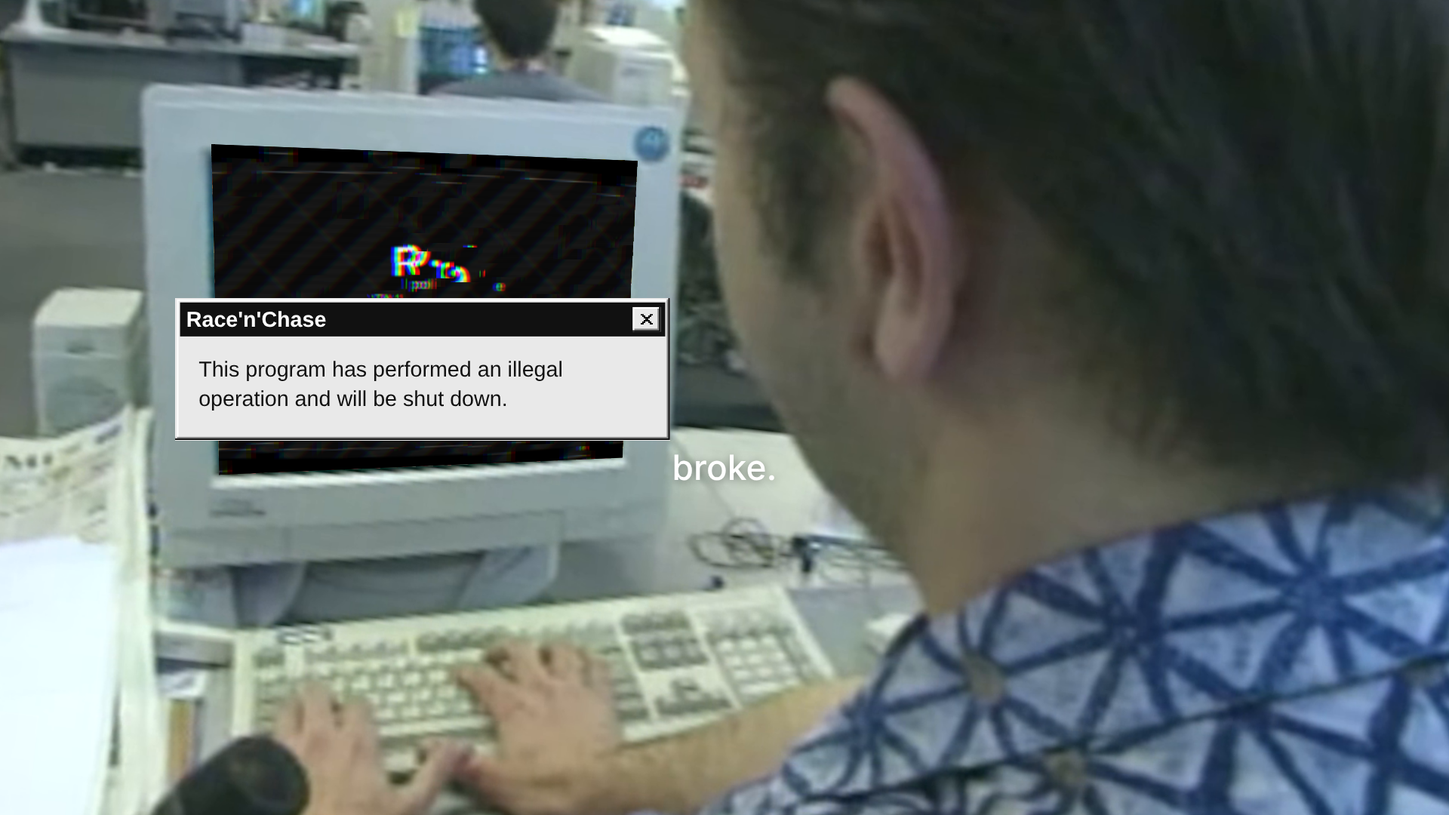
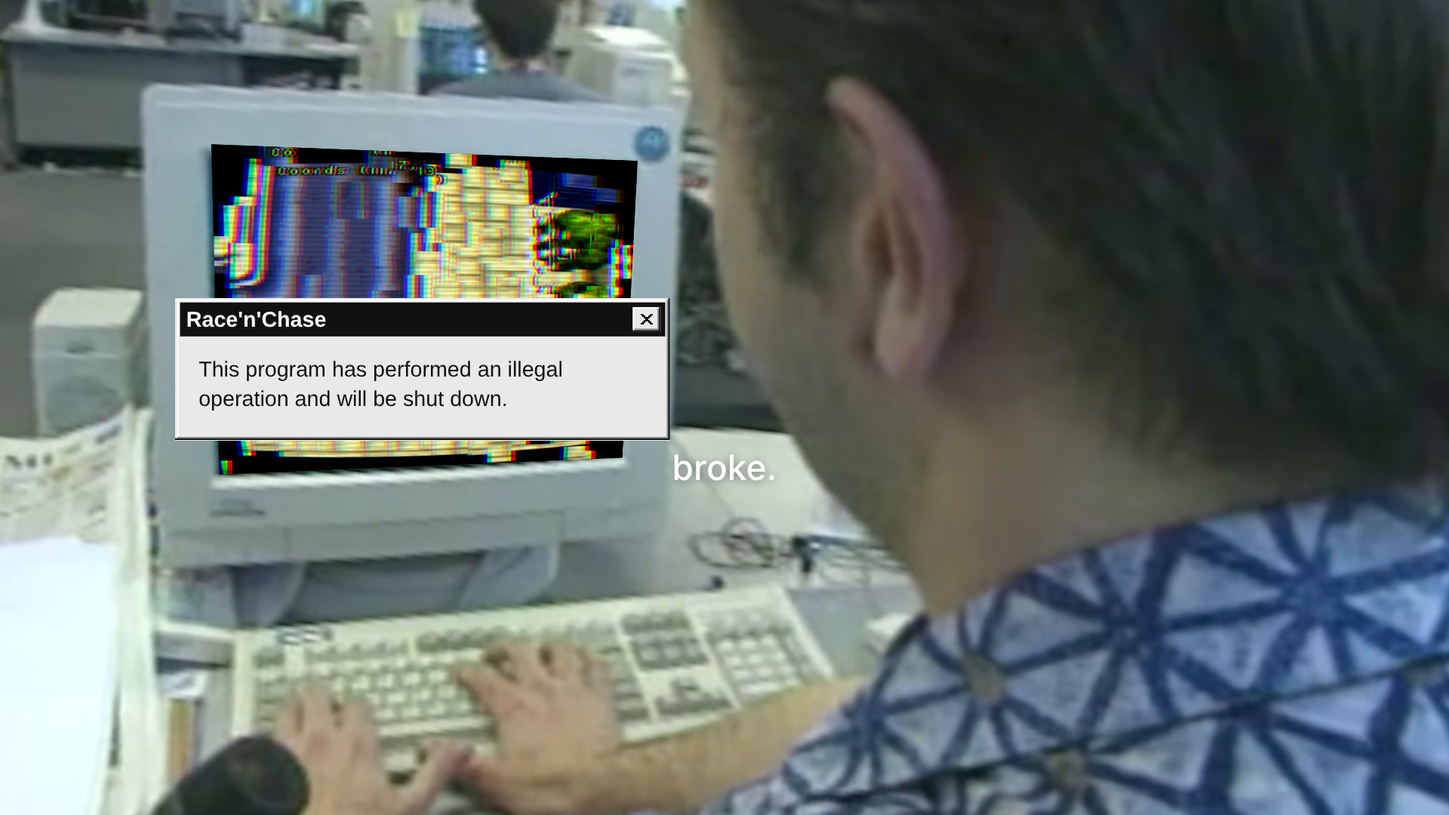
Crop the R9.1 uploader watermark out of B9 (L1 + re-tracked diagram), B2 (CRT picture) and B16 (rewind)
Plan Rule 5 treats a watermarked clip as unusable; the GTA 1 chase is re-cropped
(B9 536:302:260:108, B2 536:402:260:53) instead of retouched. Beats re-rendered.

Claude-Session: https://claude.ai/code/session_01Gm9Yp72acZwzYS1VLxBsXc

Changed region(s): [[0.125, 0.1833, 0.4375, 0.3667], [0.125, 0.5194, 0.4062, 0.5806]]

diff --git a/RC_GTA-Origin/hyperframes/b09-throughyou/index.html b/RC_GTA-Origin/hyperframes/b09-throughyou/index.html
@@ -29,16 +29,17 @@
          beat     local    what
          -6..0    0..6     head handle: transparent (Tesseract L1 R9.1 under it), path diagram's white dot already on the
                            player's car (opening state continued backward), diagram push extrapolated backward (99.81%)
-         0        6        X1 hard cut from B8's black. TS+HF: Tesseract L1 R9.1 313.9 s+ (~60% sat, 105%, soft edges, push
-                           100->104% f0-127). HF overlay = path diagram + T1. T1 "The police cars" on "The"
+         0        6        X1 hard cut from B8's black. TS+HF: Tesseract L1 R9.1 313.9 s+ (crop 536:302:260:108 = the
+                           'Sakura240' watermark cropped out, plan Rule 5; ~60% sat, 105%, soft edges, push 100->104% f0-127).
+                           HF overlay = path diagram + T1. T1 "The police cars" on "The"
          22       28       T1 "stop following you" on "stop"; the dotted yellow path (#FFE14D, 4 px dots) draws the normal
-                           chase path curving behind the dot, from the police position S (240,470) to the dot, 24f, linear
+                           chase path curving behind the dot, from the police position S (600,470) to the dot, 24f, linear
                            (drawn by f46 = local 52, before "you" f49)
          52       58       T1 "and start trying" on "and"
          73       79       T1 "to drive straight" on "to"
          84-92    90-98    on "straight": the solid red arrow (#E3262E, 10 px) shoots from S straight at the dot and through
-                           it, 8f, ease out (power3.out); its head passes the dot between local 92 and 93
-         87-95    93-101   the dot shakes (kit RCK.motifs.shake, 6 px decaying, 8f) from the first frame the arrow is through
+                           it, 8f, ease out (power3.out); its head passes the dot between local 91 and 92
+         86-94    92-100   the dot shakes (kit RCK.motifs.shake, 6 px decaying, 8f) from the first frame the arrow is through
          100      106      T1 "through you." on "through"; diagram holds (on screen f0-127 = 4.2 s, plan: >= 1.5 s)
          127      133      X1 hard cut on "They ram.": HF L3, three vertical strips (8 px ink-black gutters). Strip 1 GTA 1 ram
                            (R9.1 318.1 s+ = the ram that ends the L1 shot; SUBSTITUTE for R9.2) pops (4f, 96->100% + fade)
@@ -70,11 +71,13 @@
       <!-- ===== Path diagram (HF overlay over the Tesseract L1 shot), local 0 .. 133 (beat f-6 .. f127).
            Layer order inside the SVG: dotted yellow path < white dot < red arrow (the arrow crosses the dot = "through").
            Geometry (SVG px; the group #b09-track is translated per frame so D rides the player's purple Beast GTS in the real
-           R9.1 shot, see TRACK below): white dot D (960,540) r 22 (44 px) = the player's car; police position S (240,470);
-           normal chase path =
-           cubic S -> C1 (330,170) -> C2 (830,170) -> D (ends under the dot); red arrow = straight line S -> D -> E, 200 px
-           past the dot centre (E 1159.06,559.35), 10 px, solid triangular head 36 x 32 px. All above the T1 caption band
-           (y 592-648). ===== -->
+           R9.1 shot, see TRACK below): white dot D (960,540) r 22 (44 px) = the player's car; police position S (600,470)
+           (360 px left of D: in the watermark-free crop the car rides as far left as screen x ~484, so S sits closer than
+           the first build's 720 px to stay on screen); normal chase path =
+           cubic S -> C1 (645,170) -> C2 (895,170) -> D (ends under the dot); red arrow = straight line S -> D -> E, 200 px
+           past the dot centre (E 1156.32,578.17), 10 px, solid triangular head 36 x 32 px. Tracked and pushed, all of it
+           stays on screen and above the T1 caption band (y 592-648): measured dot bottom <= 580, path top >= 64,
+           S x >= 116. ===== -->
       <div data-hf-id="hf-tb41" id="b09-diagram" style="z-index: 20">
         <div data-hf-id="hf-ef0x" id="b09-dg" class="clip" data-start="0.0000" data-duration="4.4333" data-track-index="5">
           <svg data-hf-id="hf-ji9f" viewBox="0 0 1920 1080" width="1920" height="1080" xmlns="http://www.w3.org/2000/svg" aria-hidden="true">
@@ -82,20 +85,20 @@
             <defs data-hf-id="hf-mh0t">
               <!-- reveal mask for the dotted path: a solid stroke of the same curve, dash-offset 100 -> 0 (pathLength 100) -->
               <mask data-hf-id="hf-zm5i" id="b09-path-mask" maskUnits="userSpaceOnUse" x="0" y="0" width="1920" height="1080">
-                <path data-hf-id="hf-762r" id="b09-path-reveal" d="M240,470 C330,170 830,170 960,540" fill="none" stroke="#FFFFFF" stroke-width="16" stroke-linecap="butt" pathLength="100" stroke-dasharray="100 100" stroke-dashoffset="100" />
+                <path data-hf-id="hf-762r" id="b09-path-reveal" d="M600,470 C645,170 895,170 960,540" fill="none" stroke="#FFFFFF" stroke-width="16" stroke-linecap="butt" pathLength="100" stroke-dasharray="100 100" stroke-dashoffset="100" />
               </mask>
             </defs>
             <!-- dotted yellow line: 4 px round dots, 12 px pitch -->
-            <path data-hf-id="hf-golg" id="b09-path" d="M240,470 C330,170 830,170 960,540" fill="none" style="stroke: var(--highlighter)" stroke-width="4" stroke-linecap="round" stroke-dasharray="0 12" mask="url(#b09-path-mask)" />
+            <path data-hf-id="hf-golg" id="b09-path" d="M600,470 C645,170 895,170 960,540" fill="none" style="stroke: var(--highlighter)" stroke-width="4" stroke-linecap="round" stroke-dasharray="0 12" mask="url(#b09-path-mask)" />
             <!-- white dot = the player's car; the <g> shakes -->
             <g data-hf-id="hf-uu6w" id="b09-dot">
               <circle data-hf-id="hf-vx03" cx="960" cy="540" r="22" style="fill: var(--white)" />
             </g>
             <!-- solid red arrow: line S -> head base (E - 36 px), dash-offset reveal; the head rides the tip -->
             <g data-hf-id="hf-qbnu" id="b09-arrow">
-              <line data-hf-id="hf-q9au" id="b09-arrow-line" x1="240" y1="470" x2="1123.2304" y2="555.8696" style="stroke: var(--siren-red)" stroke-width="10" stroke-linecap="butt" pathLength="100" stroke-dasharray="100 100" stroke-dashoffset="100" />
+              <line data-hf-id="hf-q9au" id="b09-arrow-line" x1="600" y1="470" x2="1120.9849" y2="571.3026" style="stroke: var(--siren-red)" stroke-width="10" stroke-linecap="butt" pathLength="100" stroke-dasharray="100 100" stroke-dashoffset="100" />
               <g data-hf-id="hf-rvmy" id="b09-arrow-tip">
-                <polygon data-hf-id="hf-slpz" points="0,0 -36,-16 -36,16" style="fill: var(--siren-red)" transform="rotate(5.55297)" />
+                <polygon data-hf-id="hf-slpz" points="0,0 -36,-16 -36,16" style="fill: var(--siren-red)" transform="rotate(11.00354)" />
               </g>
             </g>
             </g>
@@ -142,12 +145,19 @@
       // anchor); the head handle continues the same line backward (local 0 = 99.811%).
       const P0 = 1 - 0.04 * 6 / 127;
       S.push(tl, '#b09-diagram', f(0), { until: f(CUT_L3), from: P0, to: 1.04 });
-      // Track: the dot rides the player's car (purple Beast GTS) in the Tesseract L1 shot. Car centre measured by template
-      // matching on R9.1 (crop 736:414:59:40 scaled to 1920 x 1080), source time -> (x, y); mapped through the L1 base scale
-      // 105% about the frame centre (the push is shared: #b09-diagram is pushed like the shot). Beat f0 = source 313.9 s.
-      const TRACK = [[313.70,1250,578],[314.0,1260,580],[314.2,1248,584],[314.4,1208,560],[314.6,1112,496],[314.8,1016,452],
-        [315.0,920,440],[315.2,912,452],[315.6,904,456],[316.0,900,456],[316.2,928,472],[316.5,928,484],[316.8,960,508],
-        [317.0,968,532],[317.9,968,532],[318.0,964,540],[318.14,968,528]];
+      // Track: the dot rides the player's car (purple Beast GTS) in the Tesseract L1 shot. Car centre measured on every
+      // source frame 313.7-318.13 s by template matching on R9.1 (the car sprite cut from 316.5 s, rotated in 0.5 deg steps,
+      // masked NCC), in the shot's crop 536:302:260:108 scaled to 1920 x 1080 (x' = (sx - 260) * 1920/536,
+      // y' = (sy - 108) * 1080/302), then reduced to the keypoints below (linear in between stays within 12 px of every
+      // measured frame; the clip's 15 fps steps are kept so the dot does not slide on the car). Source time -> (x, y);
+      // mapped through the L1 base scale 105% about the frame centre (the push is shared: #b09-diagram is pushed like the
+      // shot). Beat f0 = source 313.9 s.
+      const TRACK = [[313.7,1020,554],[313.7667,1002,551],[314.0667,1016,552],[314.2,992,557],[314.5,922,507],
+        [314.5333,894,490],[314.5667,872,446],[314.6,872,446],[314.6333,836,426],[314.6667,836,426],[314.7,779,411],
+        [314.7333,779,411],[314.7667,737,386],[314.8,737,386],[314.8667,651,370],[314.9,651,370],[314.9333,599,370],
+        [314.9667,599,370],[315,545,370],[315.0667,531,365],[315.2,531,382],[315.2333,558,393],[315.4,544,382],
+        [315.4333,522,387],[316,515,387],[316.0333,557,393],[316.5667,549,429],[316.7,572,440],[316.7667,600,460],
+        [316.9667,608,493],[318.1333,607,490]];
       const SRC0 = 313.9;                                                  // source time at beat f0 (local 6)
       for (let k = 0; k <= CUT_L3; k++) {
         const t = SRC0 + (k - 6) / 30;
@@ -170,11 +180,12 @@
       S.hard(tl, '#b09-arrow', { opacity: 0 }, { opacity: 1 }, f(W.straight));
       tl.fromTo('#b09-arrow-line', { attr: { 'stroke-dashoffset': 100 } },
         { attr: { 'stroke-dashoffset': 0 }, duration: f(8), ease: 'power3.out', immediateRender: false }, f(W.straight));
-      gsap.set('#b09-arrow-tip', { x: 275.8311, y: 473.4836 });                  // tip at S + 36 px along the line
-      tl.fromTo('#b09-arrow-tip', { x: 275.8311, y: 473.4836 },
-        { x: 1159.0614, y: 559.3532, duration: f(8), ease: 'power3.out', immediateRender: false }, f(W.straight));
-      // Tip passes the dot (723 px from S) between local 92 (643 px) and 93 (788 px): the dot shakes from local 93.
-      const HIT = W.straight + 3;
+      gsap.set('#b09-arrow-tip', { x: 635.3382, y: 476.8713 });                  // tip at S + 36 px along the line
+      tl.fromTo('#b09-arrow-tip', { x: 635.3382, y: 476.8713 },
+        { x: 1156.3231, y: 578.1739, duration: f(8), ease: 'power3.out', immediateRender: false }, f(W.straight));
+      // Tip passes the dot (367 px from S; far edge 389 px) between local 91 (256 px) and 92 (399 px): the dot shakes
+      // from local 92.
+      const HIT = W.straight + 2;
       M.shake(tl, '#b09-dot', f(HIT), { amp: 6, frames: 8, seed: 9, decay: true });
 
       // ---------------- L3 three vertical strips (beat f127 ..), one per phrase, with its T4 phrase ----------------

diff --git a/RC_GTA-Origin/hyperframes/b02-bug/index.html b/RC_GTA-Origin/hyperframes/b02-bug/index.html
@@ -28,7 +28,9 @@
       #b02-band { position: absolute; left: 0; top: 186px; width: 1920px; height: 1080px; overflow: hidden; }
       #b02-band-push { position: absolute; left: 0; top: 0; width: 1920px; height: 1080px; }
       #b02-band-push > video { position: absolute; left: 0; top: 0; width: 100%; height: 100%; object-fit: cover; }
-      /* after the cut on "1995": GTA 1 fills the whole 4:3 screen (box 537 x 406, corner-pinned at 1x; it never zooms) */
+      /* after the cut on "1995": GTA 1 fills the whole 4:3 screen (box 537 x 406, corner-pinned at 1x; it never zooms).
+         The R9.1 clip is itself a 4:3 crop (536:402:260:53, the uploader's watermark cropped out per plan Rule 5), so
+         cover fills the screen with 0.8% overscan; its CRT fringe is 50 / 541.3 px = 0.0924 (kit crtGrading, 4:3). */
       #b02-g1 { position: absolute; left: 0; top: 0; width: 100%; height: 100%; object-fit: cover; }
       /* X4 region = the screen picture only (plan: "X4 tear on the CRT picture only"): box space of the pinned screen */
       #b02-x4 { left: 0; top: 0; width: 537px; height: 406px; }
@@ -75,7 +77,7 @@
             </div></div>
           </div>
           <!-- hard cut of the CRT picture to GTA 1 (R9.1) on "1995" (local 32) -->
-          <div data-hf-id="hf-b2gb" id="b02-g1box"><video data-color-grading="{&quot;preset&quot;:null,&quot;intensity&quot;:1,&quot;adjust&quot;:{&quot;exposure&quot;:0,&quot;contrast&quot;:0.15,&quot;highlights&quot;:0,&quot;shadows&quot;:0,&quot;whites&quot;:0,&quot;blacks&quot;:0,&quot;temperature&quot;:0,&quot;tint&quot;:0,&quot;vibrance&quot;:0,&quot;saturation&quot;:0},&quot;details&quot;:{&quot;vignette&quot;:0,&quot;vignetteMidpoint&quot;:0.5,&quot;vignetteRoundness&quot;:0,&quot;vignetteFeather&quot;:0.65,&quot;grain&quot;:0,&quot;grainSize&quot;:0.25,&quot;grainRoughness&quot;:0.5},&quot;effects&quot;:{&quot;blur&quot;:0,&quot;pixelate&quot;:0,&quot;chromaBleed&quot;:0,&quot;tapeDamage&quot;:0,&quot;tapeTracking&quot;:0,&quot;tapeNoise&quot;:1,&quot;tapeSpeed&quot;:0.5,&quot;filmArtifacts&quot;:0,&quot;halftone&quot;:0,&quot;halftoneSize&quot;:0,&quot;twoInkPrint&quot;:0,&quot;twoInkPrintSize&quot;:0,&quot;ascii&quot;:0,&quot;asciiSize&quot;:0.06578947368421052,&quot;asciiInvert&quot;:0,&quot;asciiStyle&quot;:0,&quot;asciiColor&quot;:1,&quot;asciiRotation&quot;:0,&quot;dither&quot;:0,&quot;ditherSize&quot;:0,&quot;bloom&quot;:0,&quot;bloomRadius&quot;:8,&quot;monoScreen&quot;:0,&quot;monoScreenSize&quot;:0,&quot;monoScreenAngle&quot;:0,&quot;monoScreenSpread&quot;:0,&quot;monoScreenShape&quot;:0,&quot;monoScreenInvert&quot;:0,&quot;scanlines&quot;:0.15,&quot;scanlineCount&quot;:0.1896,&quot;scanlineSoftness&quot;:0,&quot;chromaticAberration&quot;:0.0693,&quot;chromaticAngle&quot;:0,&quot;crtCurvature&quot;:0.16,&quot;digitalGlitch&quot;:0,&quot;digitalGlitchColorSplit&quot;:0,&quot;digitalGlitchLineTear&quot;:0,&quot;digitalGlitchPixelate&quot;:0,&quot;digitalGlitchBlockAmount&quot;:0,&quot;digitalGlitchBlockDisplacement&quot;:0,&quot;digitalGlitchBlockOpacity&quot;:0,&quot;digitalGlitchSpeed&quot;:0,&quot;engraving&quot;:0,&quot;engravingSpacing&quot;:0.4117647058823529,&quot;engravingMinThickness&quot;:0.2,&quot;engravingMaxThickness&quot;:0.4571428571428572,&quot;engravingAngle&quot;:0.25,&quot;engravingContrast&quot;:0.4666666666666667,&quot;engravingSharpness&quot;:0.59,&quot;engravingWave&quot;:0.2,&quot;engravingWaveFrequency&quot;:0.2222222222222222,&quot;crosshatch&quot;:0,&quot;crosshatchSpacing&quot;:0.28,&quot;crosshatchThickness&quot;:0.25,&quot;crosshatchAngle&quot;:0.25,&quot;crosshatchContrast&quot;:0.3333333333333333,&quot;crosshatchEdges&quot;:0.5,&quot;crosshatchLineWeight&quot;:0,&quot;crosshatchWave&quot;:0.33,&quot;crosshatchWaveFrequency&quot;:0.2222222222222222,&quot;kuwahara&quot;:0,&quot;kuwaharaRadius&quot;:0.14285714285714285,&quot;kuwaharaSharpness&quot;:0.3125,&quot;kuwaharaSaturation&quot;:0.5},&quot;lut&quot;:null,&quot;colorSpace&quot;:&quot;rec709&quot;}" data-hf-id="hf-hpv1" id="b02-g1" class="clip" src="assets/footage/R9.1.mp4" data-start="1.0666" data-duration="5.3334" data-media-start="0" data-track-index="5" muted playsinline></video></div>
+          <div data-hf-id="hf-b2gb" id="b02-g1box"><video data-color-grading="{&quot;preset&quot;:null,&quot;intensity&quot;:1,&quot;adjust&quot;:{&quot;exposure&quot;:0,&quot;contrast&quot;:0.15,&quot;highlights&quot;:0,&quot;shadows&quot;:0,&quot;whites&quot;:0,&quot;blacks&quot;:0,&quot;temperature&quot;:0,&quot;tint&quot;:0,&quot;vibrance&quot;:0,&quot;saturation&quot;:0},&quot;details&quot;:{&quot;vignette&quot;:0,&quot;vignetteMidpoint&quot;:0.5,&quot;vignetteRoundness&quot;:0,&quot;vignetteFeather&quot;:0.65,&quot;grain&quot;:0,&quot;grainSize&quot;:0.25,&quot;grainRoughness&quot;:0.5},&quot;effects&quot;:{&quot;blur&quot;:0,&quot;pixelate&quot;:0,&quot;chromaBleed&quot;:0,&quot;tapeDamage&quot;:0,&quot;tapeTracking&quot;:0,&quot;tapeNoise&quot;:1,&quot;tapeSpeed&quot;:0.5,&quot;filmArtifacts&quot;:0,&quot;halftone&quot;:0,&quot;halftoneSize&quot;:0,&quot;twoInkPrint&quot;:0,&quot;twoInkPrintSize&quot;:0,&quot;ascii&quot;:0,&quot;asciiSize&quot;:0.06578947368421052,&quot;asciiInvert&quot;:0,&quot;asciiStyle&quot;:0,&quot;asciiColor&quot;:1,&quot;asciiRotation&quot;:0,&quot;dither&quot;:0,&quot;ditherSize&quot;:0,&quot;bloom&quot;:0,&quot;bloomRadius&quot;:8,&quot;monoScreen&quot;:0,&quot;monoScreenSize&quot;:0,&quot;monoScreenAngle&quot;:0,&quot;monoScreenSpread&quot;:0,&quot;monoScreenShape&quot;:0,&quot;monoScreenInvert&quot;:0,&quot;scanlines&quot;:0.15,&quot;scanlineCount&quot;:0.1896,&quot;scanlineSoftness&quot;:0,&quot;chromaticAberration&quot;:0.0924,&quot;chromaticAngle&quot;:0,&quot;crtCurvature&quot;:0.16,&quot;digitalGlitch&quot;:0,&quot;digitalGlitchColorSplit&quot;:0,&quot;digitalGlitchLineTear&quot;:0,&quot;digitalGlitchPixelate&quot;:0,&quot;digitalGlitchBlockAmount&quot;:0,&quot;digitalGlitchBlockDisplacement&quot;:0,&quot;digitalGlitchBlockOpacity&quot;:0,&quot;digitalGlitchSpeed&quot;:0,&quot;engraving&quot;:0,&quot;engravingSpacing&quot;:0.4117647058823529,&quot;engravingMinThickness&quot;:0.2,&quot;engravingMaxThickness&quot;:0.4571428571428572,&quot;engravingAngle&quot;:0.25,&quot;engravingContrast&quot;:0.4666666666666667,&quot;engravingSharpness&quot;:0.59,&quot;engravingWave&quot;:0.2,&quot;engravingWaveFrequency&quot;:0.2222222222222222,&quot;crosshatch&quot;:0,&quot;crosshatchSpacing&quot;:0.28,&quot;crosshatchThickness&quot;:0.25,&quot;crosshatchAngle&quot;:0.25,&quot;crosshatchContrast&quot;:0.3333333333333333,&quot;crosshatchEdges&quot;:0.5,&quot;crosshatchLineWeight&quot;:0,&quot;crosshatchWave&quot;:0.33,&quot;crosshatchWaveFrequency&quot;:0.2222222222222222,&quot;kuwahara&quot;:0,&quot;kuwaharaRadius&quot;:0.14285714285714285,&quot;kuwaharaSharpness&quot;:0.3125,&quot;kuwaharaSaturation&quot;:0.5},&quot;lut&quot;:null,&quot;colorSpace&quot;:&quot;rec709&quot;}" data-hf-id="hf-hpv1" id="b02-g1" class="clip" src="assets/footage/R9.1.mp4" data-start="1.0666" data-duration="5.3334" data-media-start="0" data-track-index="5" muted playsinline></video></div>
         </div>
         <!-- X4 pixel-block tear on "broke." (local 107), still mode on the screen region, holds the torn frame -->
         <div data-hf-id="hf-b2pn" id="b02-pin" style="z-index: 3">

diff --git a/RC_GTA-Origin/hyperframes/b09-throughyou/BEAT_NOTES.md b/RC_GTA-Origin/hyperframes/b09-throughyou/BEAT_NOTES.md
@@ -34,12 +34,12 @@ TS+HF f0-127: Tesseract L1 R9.1 (`tesseract_shots.json` B9-gta1-chase-L1) under 
 | beat f | what | values / ease |
 |---|---|---|
 | -6..0 | head handle: transparent, dot already on the car, diagram push continued backward (99.81%) | |
-| 0 | X1 hard cut from B8's black (Tesseract); T1 "The police cars" | |
+| 0 | X1 hard cut from B8's black (Tesseract L1, crop 536:302:260:108 = watermark cropped out, see "Footage used"); T1 "The police cars" | |
 | 0-127 | diagram pushed exactly like the L1 shot: 100% (f0) -> 104% (f127), centre anchor | linear |
-| -6..127 | `#b09-track` = the player's car position per frame (template-matched on R9.1 313.7-318.14 s, mapped through the L1 105% base scale) | one `set` per frame |
-| 22-46 | dotted yellow path draws from the police position S (240, 470) round to the dot | masked dash reveal, 24f linear, done before "you" f49 |
-| 84-92 | on "straight": red arrow (10 px, solid head 36 x 32) shoots S -> through the dot -> 200 px past it | 8f power3.out |
-| 87-95 | dot shakes (first frame the arrow is through) | kit shake, 6 px decaying, 8f, seed 9 |
+| -6..127 | `#b09-track` = the player's car position per frame (template-matched on every source frame of R9.1 313.7-318.13 s in the shot's crop 536:302:260:108, reduced to 31 keypoints within 12 px, mapped through the L1 105% base scale) | one `set` per frame |
+| 22-46 | dotted yellow path draws from the police position S (600, 470) round to the dot (C1 (645, 170), C2 (895, 170)) | masked dash reveal, 24f linear, done before "you" f49 |
+| 84-92 | on "straight": red arrow (10 px, solid head 36 x 32) shoots S -> through the dot -> 200 px past it (E (1156.32, 578.17)) | 8f power3.out |
+| 86-94 | dot shakes (first frame the arrow is through: the tip passes the dot between f85 and f86) | kit shake, 6 px decaying, 8f, seed 9 |
 | 127 | **X1 hard cut on "They ram."** to L3 (8 px ink gutters); strip 1 pops + T4 "They ram." | pop 4f 96->100% + fade, then 4f punch-in to 115% |
 | 151 | strip 2 pops + punch + T4 "They chase." | same |
 | 178 | strip 3 pops + punch + T4 "They don't let go." | same |
@@ -67,14 +67,16 @@ B10 = T2: rotation holds).
 - Not full colour yet: L1 at ~60% saturation, strips matched (B10 snaps to full colour on "fun").
 - The dot must sit on the player's car: if the L1 `source_in_s`, crop, 105% base or push changes, re-track (TRACK in
   `index.html`).
+- No watermark on screen (plan Rule 5): R9.1 carries the uploader's "Sakura240" in every frame at x 100-258, y 352-385
+  of the 854x480 upload, so every R9.1 crop starts at x >= 260. Remove it by cropping, never by blur/inpaint/stretch.
 - No SFX, no siren wash (X9 only in B1/B5/B14), no glitch here.
 - Stretch nothing: the strips are vertical crops of the game pictures (cover), never squeezed.
 
 ## Footage used
 | R-ID | file | in-out (s, original) | what it shows | link |
 |---|---|---|---|---|
-| R9.1 | `04_Broll/_originals/B02/R9.1__GTA 1 Police Chase 001 [HX8infRFBTc].mp4` | 313.9-318.13 (Tesseract L1, crop 736:414:59:40) | GTA 1: the player's purple Beast GTS swerves through a junction among police cars, stops, and a police car drives straight down into it | https://www.youtube.com/watch?v=HX8infRFBTc&t=313 |
-| R9.1 | same | 318.13-321.0 here (window 318.1-322.4, continues in B10 to 322.2), crop 276:414:274:40 | strip 1: the police car rams the Beast GTS (318.1-318.9), the player breaks away with the cops behind as the camera pulls out | https://www.youtube.com/watch?v=HX8infRFBTc&t=318 |
+| R9.1 | `04_Broll/_originals/B02/R9.1__GTA 1 Police Chase 001 [HX8infRFBTc].mp4` | 313.9-318.13 (Tesseract L1, crop 536:302:260:108 = x 260-796, y 108-410: the uploader's "Sakura240" watermark (x 100-258, y 352-385) is cropped out, plan Rule 5; was 736:414:59:40, which showed it low-left for ~4 s) | GTA 1: the player's purple Beast GTS swerves through a junction among police cars, stops, and a police car drives straight down into it | https://www.youtube.com/watch?v=HX8infRFBTc&t=313 |
+| R9.1 | same | 318.13-321.0 here (window 318.1-322.4, continues in B10 to 322.2), crop 276:414:274:40 (x 274-550: clear of the watermark, unchanged) | strip 1: the police car rams the Beast GTS (318.1-318.9), the player breaks away with the cops behind as the camera pulls out | https://www.youtube.com/watch?v=HX8infRFBTc&t=318 |
 | R9.3 | `04_Broll/_originals/B09/R9.3__GTA2 5 Stars Gameplay [LNqEGdO9HDI].mp4` | 55.6-57.7 here (window 55.6-59.2), crop 288:480:247:0 | strip 2, GTA 2 (5 stars): white-and-blue police cars swarm the junction around the player | https://www.youtube.com/watch?v=LNqEGdO9HDI&t=55 |
 | R9.5 | `04_Broll/_originals/B09/R9.5__Grand Theft Auto London 1969 Rampage (NO COMMENTARY) [3f0Zmrg9NUk].mp4` | 566.0-567.2 here (window 566.0-569.0), crop 288:480:96:0 | strip 3, London 1969: a blue van mounts the pavement and keeps driving after the player on foot | https://www.youtube.com/watch?v=3f0Zmrg9NUk&t=566 |
 
@@ -86,7 +88,10 @@ B10 = T2: rotation holds).
 ## Interpretations / conflicts
 1. **Dot tracking**: the plan's dot "marks the player's car"; the whole diagram (dot, path, arrow) is translated per
    frame so the dot rides the car (GTA 1's camera does not keep the car centred). The schematic S point and path keep
-   their shape relative to the dot.
+   their shape relative to the dot. Since the watermark-free crop (interpretation 6) the car rides further left
+   (screen x ~484-1024), so S sits 360 px left of the dot instead of 720 (S (600, 470), C1 (645, 170), C2 (895, 170),
+   E (1156.32, 578.17)) to stay on screen; the TRACK was re-measured in the new crop and keeps the clip's 15 fps steps
+   (the dot moves with the car, it does not glide over it).
 2. **Arrow vs the real ram**: the arrow fires on "straight" (f84); in the footage the real ram follows at f~117-127
    and continues in strip 1 - the diagram explains it, the footage then shows it.
 3. **L3 cut frame**: strips pop in from the cut frame (frame 0 of a pop is empty), as the L3 library's "cells pop in".
@@ -94,18 +99,32 @@ B10 = T2: rotation holds).
    weapon at them); chosen as the densest police moment in the GTA 2 clip for "They chase.".
 5. SUGGESTION (not built): R9.4 (GTA 1 in 4K) could replace strip 1 with a sharper ram if one is found; after ~1 s the
    R9.1 strip shows the player escaping at a wider camera zoom, so the ram itself reads mainly at the pop.
+6. **Watermark (plan Rule 5: a watermarked clip is unusable)**: R9.1 carries the uploader's "Sakura240" watermark in
+   every frame (x 100-258, y 352-385 of the 854x480 upload). The L1 shot's old crop 736:414:59:40 left it readable at
+   the lower left for ~4 s, so the L1 crop is now 536:302:260:108 (x 260-796, y 108-410; 16:9 within 0.2%, scaled
+   3.58x instead of 2.61x): it is re-cropped out, never blurred, inpainted or stretched. The crop keeps the player's
+   car and the police cars (the ramming car enters at the top at ~317.6 s). Its y is 108, not 100, because at y 100 the
+   car sits so low at the start (313.7-314.4 s) that the white dot would dip into the T1 caption band (dot bottom 609 >
+   592, over "police"); at y 108 the dot bottom stays <= 580. Strip 1 (276:414:274:40) already excluded the watermark.
 
 ## Pending / blocking
 - Nothing blocking.
-- Known: R9.1 (the plan's GTA 1 chase clip) carries the uploader's faint "Sakura240" watermark in every frame (lower
-  left). Strip 1's crop excludes it; in the L1 shot it sits in the soft-edge zone at the lower left (a tighter crop
-  would zoom the car out of frame and invalidate the dot track). SUGGESTION: R9.4 (GTA 1 4K, no watermark seen) if a
-  matching chase-and-ram moment is found.
+- Resolved: the "Sakura240" watermark is cropped out of the L1 shot (interpretation 6); strip 1 already excluded it, so
+  no R9.1 frame in B9 shows it. B16's rewind reads this shot's crop live (`b16-bug-origin/tools/make_rewind.py`):
+  re-run it after any change here. SUGGESTION: R9.4 (GTA 1 4K, no watermark seen) if a matching chase-and-ram moment is
+  found (a sharper picture at this zoom).
 
 ## Verification
 - `npx --yes hyperframes@0.9.52 check --json`: 0 errors. Warnings weighed: `timeline_track_too_dense` (caption lane),
   `nested_structure_needs_subcomposition` (the SVG diagram), craft warnings (beat segment).
 - Snapshots in `review/` (read): local 6, 20, 52, 93, 110 (dot on the car, path, arrow, shake, captions), 128, 133,
-  137, 161, 190, 226 (L3 cut, pops, T4 phrases, tail).
+  137, 161, 190, 226 (L3 cut, pops, T4 phrases, tail); re-shot after the watermark re-crop (new S / path / arrow).
+- Watermark re-crop (L1 536:302:260:108) check: `review/l1-dotcheck-1.jpg` / `-2.jpg` = overlay snapshots at local 6,
+  21, 28 ("stop"), 40, 52, 92 ("straight", arrow through), 110, 132 (end) composited over the cropped source frame
+  (1920 x 1080, x 1.05 x the push about the centre); green cross = measured car centre, cyan = caption band. Read: the
+  dot sits on the car in all eight, no watermark, everything on screen. Measured on every frame of the render
+  (local 0-132): dot-to-car centre error max 12.7 px (mean 4.3) outside the intended shake (17.2 px with the 6 px shake
+  at local 96); dot bottom <= 579; path/arrow y 65-536, x >= 116.
+- `check --json` after the re-crop: 0 errors (same 2 lint + 5 craft warnings as before).
 - Render: `cd hyperframes/b09-throughyou && npx --yes hyperframes@0.9.52 render . --format mov --workers 1 -o
-  ../../05_GFX/renders/b09-throughyou.mov` (ffprobe in the lane report).
+  ../../05_GFX/renders/b09-throughyou.mov`: ffprobe prores 1920x1080, 30 fps, 227 frames, yuva444p12le.

diff --git a/RC_GTA-Origin/hyperframes/b02-bug/BEAT_NOTES.md b/RC_GTA-Origin/hyperframes/b02-bug/BEAT_NOTES.md
@@ -21,7 +21,8 @@ top-down police footage on "1995", tears into pixel blocks on "broke", freezes u
   (all kit). No cut-outs.
 - Grades (media-treatment): R1.2 + R9.1 "game" contrast +0.15 (same as B1); CRT = `crtCurvature 0.16` (8% bulge),
   `scanlines 0.15` + `scanlineCount` 0.1126 (GTA 6 band, 302 px) / 0.1896 (GTA 1, 406 px) = 3 px lines,
-  `chromaticAberration` 0.0931 / 0.0693 = 1 px fringe (`RCK.motifs.crtGrading` for the real screen); blur control
+  `chromaticAberration` 0.0931 / 0.0924 = 1 px fringe (`RCK.motifs.crtGrading` for the real screen; GTA 1 = 50 /
+  541.3 px now that R9.1 is a 4:3 crop filling the screen, was 0.0693 = 50 / 721.8 px for the 16:9 clip); blur control
   (0.01, inline 0) on the plate and both GTA 6 copies for the X6 motion blur. R3.7 plate: no grade.
 
 ## 3. Tool and layer stack
@@ -51,7 +52,7 @@ axis-aligned when zoomed, so the first frame is the straight hand-off copy (`han
 | 3..8 | clean R1.2 copy fades 1 -> 0 so the CRT look settles as it lands | linear |
 | 0..26 | CRT GTA 6 (bulge, 3 px scanlines 15%, 1 px fringe) + flicker | flicker 97-100%, one seeded value per frame (`M.crtFlicker`, seed 97) |
 | 8..180 (+6) | **slow push on the plate** (camera) | 100 -> 104% at f180, linear, origin = screen centre (560, 410) |
-| 26 | hard cut of the CRT picture to GTA 1 R9.1 on "1995" | 16:9 picture covered into the 537x406 pinned screen; flicker seed 98 |
+| 26 | hard cut of the CRT picture to GTA 1 R9.1 on "1995" | 4:3 picture (crop 536:402:260:53, watermark-free) fills the 537x406 pinned screen (cover, 0.8% overscan); flicker seed 98 |
 | 101..108 | **X4 tear** on the CRT picture only (still mode, `X.tear`, 8f, seed 101) | 16x9 blocks (20x26.7 px), jump +/-30 px (70% of non-frozen), 25% freeze, 6 px RGB split (R +6 / B -6) |
 | 109..end | picture frozen on the last torn frame (`end: 'hold'`); flicker kept alive by an ink veil 0-3% | seeded (99), one value per frame |
 | 109 | **error box hard pop** (its `data-start`), 640 px wide at (240, 395) = centred on the screen, 28 px text | no tween |
@@ -115,13 +116,21 @@ saved -0.29f: all within +/-2f.
 10. **X6 motion blur** is the kit's media-treatment defocus (peaks with zoom speed), not a radial streak.
 11. Optional R2.3 glitch overlay not used (plan lists it as optional; the X4 carries the glitch).
 12. SUGGESTION (not built): a generic "OK" button would complete the Win95 look but adds on-screen text.
+13. **Watermark (plan Rule 5: a watermarked clip is unusable)**: R9.1 carries the uploader's "Sakura240" watermark in
+    every frame (x 100-258, y 352-385 of the 854x480 upload). The old 16:9 crop 736:414:59:40, covered into the 4:3
+    screen, still showed "kura240" at the lower left of the CRT picture. R9.1 is now cut as a 4:3 crop that starts right
+    of it, 536:402:260:53 (x 260-796, y 53-455): re-cropped, never blurred, inpainted or stretched. It fills the screen
+    exactly (no more 16:9 cover), so only the fringe value follows the kit formula (0.0693 -> 0.0924). y 53 keeps the
+    white police car whole over 126.0-128.5 s (it reaches the picture's last full row, y ~453, at 127.2 s) and on the
+    frozen f101 frame (128.5 s), and drops the HUD's score row. Trade-off: the red car it is on the tail of now stays
+    mostly left of the crop (its nose shows at the left edge on the frozen frame).
 
 ## Footage used
 | R-ID | file | in-out (s, original) | what it shows | link |
 |---|---|---|---|---|
 | R1.2 | `04_Broll/_originals/B01/R1.2__Grand Theft Auto VI - Features Trailer ｜ PS5 Games [8L0CzL2V72c].mp4` | 11.03-12.10 (window 8.2-12.4, shared with b01-hook) | official GTA 6 trailer: the police truck flipping after the shooter fires at it (B1's full-frame shot continued) | https://www.youtube.com/watch?v=8L0CzL2V72c&t=11 |
 | R3.7 | `04_Broll/_originals/B03/R3.7__GRAND THEFT AUTO 1996 Making Of ... BBC Archive [7vWSi44ZTSw].mp4` | 60.4-66.8 | BBC 1996: static over-the-shoulder shot of a DMA developer at a beige 1990s CRT monitor and keyboard (the plate; its own screen content is fully covered by the composited picture). Crop 1440:1080:240:0 | https://www.youtube.com/watch?v=7vWSi44ZTSw&t=60 |
-| R9.1 | `04_Broll/_originals/B02/R9.1__GTA 1 Police Chase 001 [HX8infRFBTc].mp4` | 126.0-128.5 (window 126.0-131.6; frozen on the torn frame from f101) | GTA 1 top-down: a white police car with lights right on the player's red car's tail (crop 736:414:59:40 removes the black borders) | https://www.youtube.com/watch?v=HX8infRFBTc&t=126 |
+| R9.1 | `04_Broll/_originals/B02/R9.1__GTA 1 Police Chase 001 [HX8infRFBTc].mp4` | 126.0-128.5 (window 126.0-131.6; frozen on the torn frame from f101) | GTA 1 top-down: a white police car with lights right on the player's red car's tail (the red car mostly left of the frame). Crop 536:402:260:53 (4:3, x 260-796, y 53-455) excludes the uploader's "Sakura240" watermark (x 100-258, y 352-385; plan Rule 5) and the black borders (was 736:414:59:40, which left "kura240" visible in the CRT) | https://www.youtube.com/watch?v=HX8infRFBTc&t=126 |
 
 ## Substitutions
 - SUBSTITUTE (Rule 5): R1.2 Grand Theft Auto VI - Features Trailer | PS5 Games [8L0CzL2V72c] @ 00:11-00:12 for R17.1
@@ -135,8 +144,8 @@ saved -0.29f: all within +/-2f.
 
 ## Pending / blocking
 - Nothing blocking. If R17.1 (Trailer 1) is uploaded later, B1 cell 6 + B2 can switch together (same in-point rule).
-- Known: R9.1 carries the uploader's faint "Sakura240" watermark (lower left of the game picture); inside the CRT it
-  is small and under the scanlines. A tighter crop would lose the police car behind the player.
+- Resolved: R9.1's "Sakura240" watermark is cropped out of the CRT picture (interpretation 13); the X4 still was
+  re-captured from the new picture (`sh tools/make_x4_still.sh`).
 
 ## Verification
 - `npx --yes hyperframes@0.9.52 check --json`: 0 errors. Warnings weighed: `timeline_track_too_dense` (caption lane),
@@ -146,5 +155,11 @@ saved -0.29f: all within +/-2f.
   footage: hand-off, X6 frames, CRT GTA 6, the cut to GTA 1, tear, error box, T7, slats); earlier stand-in notes:
   captions), `B_*` local 107-191 (tear frames, error box pop, T7 words + chip 0/112/100%, slats closing, shut tail),
   `G_*` graded frames, `x4-still-source_L107_b101.png` (the still's source frame).
+- Watermark re-crop (R9.1 536:402:260:53): `python3 tools/sync_footage.py hyperframes/b02-bug` (R9.1.mp4 now 1440x1080,
+  168 frames), fringe 0.0693 -> 0.0924 via `media-treatment --selector "#b02-g1"` (dry-run diff: only that value),
+  `sh tools/make_x4_still.sh` (new `assets/x4/b02-old.png` = the 4:3 picture at f101, 537x406), `check --json` 0 errors
+  (same warnings as above). Snapshots read at local 32 (cut to GTA 1), 60, 90, 106, 107 + 110 (tear), 116 (frozen +
+  error box), 140 (T7): the 4:3 picture fills the screen, the police car stays in it, no watermark. All 16 `review/`
+  frames and both contact sheets were re-shot after the re-crop (the old ones still showed the stand-in era).
 - Render: `cd hyperframes/b02-bug && npx --yes hyperframes@0.9.52 render . --format mov --workers 1 -o
-  ../../05_GFX/renders/b02-bug.mov` (ffprobe in the lane report).
+  ../../05_GFX/renders/b02-bug.mov`: ffprobe prores 1920x1080, 30 fps, 192 frames, yuva444p12le.

diff --git a/RC_GTA-Origin/hyperframes/b16-bug-origin/BEAT_NOTES.md b/RC_GTA-Origin/hyperframes/b16-bug-origin/BEAT_NOTES.md
@@ -17,7 +17,7 @@ series started with a [bug]." with the pixel bug popping in as "bug" is spoken.
 | Kind | ID / file | Use |
 |---|---|---|
 | B-roll (reused B14) | R14.5 (escape + 2013), R1.6 (police lights, B14's RT3 substitute), R1.3, R14.4, R14.3, R14.2, R14.1 - frames taken from the ORIGINALS with B14's in-points and crops | rewind f-6..12, reversed 8x |
-| B-roll (reused B9) | R9.1 GTA 1 police chase (PROVISIONAL moment 126.83-129.23 with B2's crop until lane E writes B9's R9.1 shot) | rewind f13-22, reversed 8x |
+| B-roll (reused B9) | R9.1 GTA 1 police chase = B9's L1 shot (source 318.13 -> 315.73 s, B9's crop 536:302:260:108: the uploader's "Sakura240" watermark cropped out, plan Rule 5), read live from `../b09-throughyou/tesseract_shots.json` | rewind f13-22, reversed 8x |
 | B-roll (reused B4) | R4.5 design-document title page (REAL still, `assets/footage/R4.5.png`) | rewind f23-29 (zoom back out), held f30-44 under X7 (0.7 s on screen in all: < 1.5 s, always with camera motion until it stops) |
 | Derived clip | `assets/rewind/b16-rewind.mp4` (52 frames) + `b16-rewind.map.json` | built by `tools/make_rewind.py` from the synced footage |
 | Textures (REAL) | **RT1** VHS overlay (Screen blend over the rewind, f-6..30) + the media-treatment VHS look + drawn tracking lines; **RT6** light leak inside the kit X7 container (f30-44) | `assets/footage/RT1.mp4`, `RT6.mp4` |
@@ -128,7 +128,7 @@ VHS/tape glitch look is allowed; no X9, no X4, no T10 here.
 | R1.6 | `B01/R1.6__The Biggest Police Chase in GTA San Andreas History! (100 Cops vs. 1 S [flgIZbQHwN8].mp4` (crop 1264:711:300:289) | 130.27, 130.00 | 3..4 | B14's police lights (RT3 substitute) | https://www.youtube.com/watch?v=flgIZbQHwN8&t=129 |
 | R1.3 | `B01/R1.3__GTA V - ＂5 Stars＂ Police Chase [NcTdBgA3Bkg].mp4` | 109.40, 109.13, 108.87 | 5..7 | B14's GTA 5 chase under the stars | https://www.youtube.com/watch?v=NcTdBgA3Bkg&t=107 |
 | R14.5 / R14.4 / R14.3 / R14.2 / R14.1 | B14's burst files, crops as in B14 | 429.73 / 155.27 / 64.13 / 274.07 / 60.43 | 8..12 | one frame per burst game, 2013 -> 2001 | see b14-since BEAT_NOTES |
-| R9.1 | `B02/R9.1__GTA 1 Police Chase 001 [HX8infRFBTc].mp4` (crop 736:414:59:40) | 129.23 -> 126.83 (8x reverse) | 13..22 | GTA 1 top-down: the white police car on the red car's tail (PROVISIONAL, see pending) | https://www.youtube.com/watch?v=HX8infRFBTc&t=126 |
+| R9.1 | `B02/R9.1__GTA 1 Police Chase 001 [HX8infRFBTc].mp4` (crop 536:302:260:108 = B9's L1 crop: x 260-796, y 108-410, excludes the uploader's "Sakura240" watermark at x 100-258, y 352-385, plan Rule 5; was 736:414:59:40, which showed it) | 318.13 -> 315.73 (8x reverse; B9 f127 -> f55) | 13..22 | GTA 1 top-down, B9's chase run backwards: the police car pulls back off the player's purple Beast GTS, which then sits by the kerb | https://www.youtube.com/watch?v=HX8infRFBTc&t=315 |
 | R4.5 | `04_Broll/B04/R4.5__design-doc-1995_title-page.png` (real still) | B4's push run back 118% -> 100% | 23..45 | the 1995 Race'n'Chase design-document title page as B4 showed it | (plan p.29 sources) |
 | RT1 | `B16/RT1__Retro VHS Transitions Glitch 5-Pack Video Overlays (4K) [QV4F0CygC3U].mp4` (crop 1632:918:0:0) | 13.00-13.50 + 13.60-14.23 | -6..30 | VHS noise bands / glitch / tape crease (Screen) | https://www.youtube.com/watch?v=QV4F0CygC3U&t=13 |
 | RT6 | `B16/RT6__FREE Light Leak Transitions Pack - 4K (ULTRA HD) [b-jt77qrRoA].mp4` | 3.98-4.45 | 30..44 | orange light-leak burst (X7) | https://www.youtube.com/watch?v=b-jt77qrRoA&t=3 |
@@ -144,9 +144,14 @@ lists every output frame's source and `inpoints_from`. Working clips: only R4.5,
 
 ## Still pending
 
-* **B9's R9.1 shot (lane E):** `../b09-throughyou/tesseract_shots.json` does not exist yet, so the rewind's 10 GTA 1 frames use a
-  PROVISIONAL moment (R9.1 126.83-129.23, the police-car-on-the-tail moment B2 also uses, B2's crop). When lane E writes B9's L1 R9.1
-  shot: `python3 tools/make_rewind.py` (picks it up automatically, `inpoints_from` then names it), re-check, re-render.
-* Re-run `tools/make_rewind.py` and re-render after any change to B14's shots (e.g. if RT3 arrives) or to B4's R4.5 framing.
+* Resolved: **B9's R9.1 shot** exists (`../b09-throughyou/tesseract_shots.json`, `inpoints_from` names it): the rewind's 10 GTA 1
+  frames are B9 f127 -> f55 (source 318.13 -> 315.73 s) with B9's L1 crop. That crop is now 536:302:260:108, which cuts the
+  uploader's "Sakura240" watermark out (plan Rule 5: a watermarked clip is unusable); the rewind was rebuilt with
+  `python3 tools/make_rewind.py` (only local frames 19-28 changed), re-checked (`check --json` 0 errors; warnings as in
+  interpretation 9) and re-rendered (ffprobe prores 1920x1080, 30 fps, 132 frames, yuva444p12le). Snapshots read at
+  local 19, 22, 24, 25, 28 (`review/footage-pass/r91-recrop-L19-28.jpg`, `f024_b018_R9.1.png` re-shot): new crop, no
+  watermark.
+* Re-run `tools/make_rewind.py` and re-render after any change to B9's L1 shot, B14's shots (e.g. if RT3 arrives) or B4's
+  R4.5 framing.
 
 Render: `npx --yes hyperframes@0.9.52 render . --format mov --workers 1 -o ../../05_GFX/renders/b16-bug-origin.mov`
